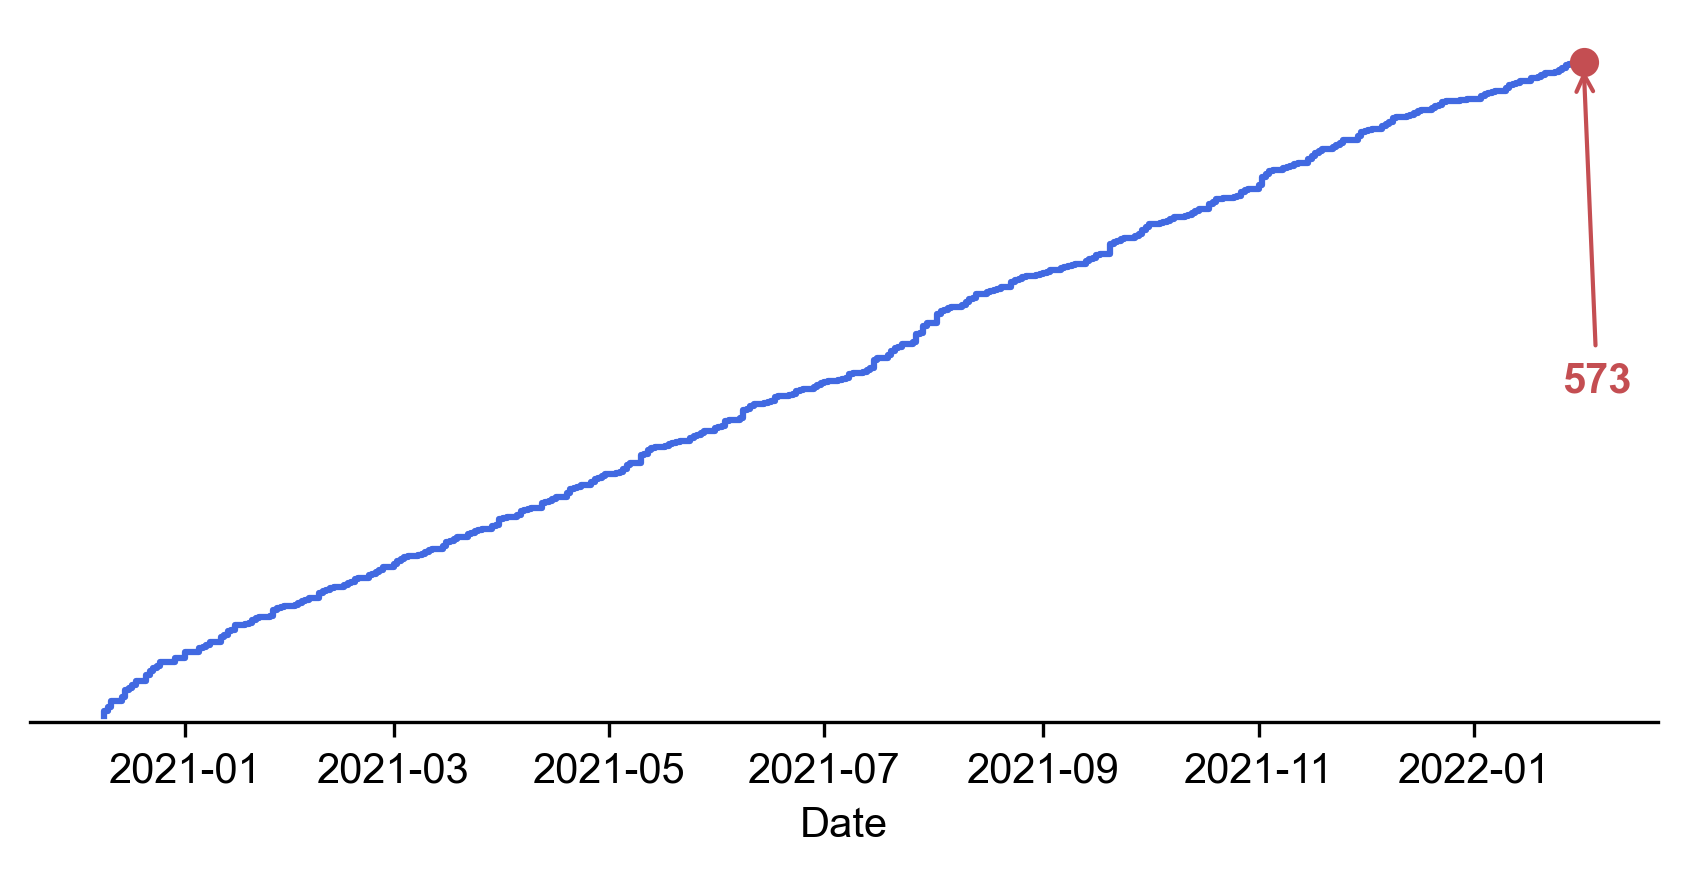
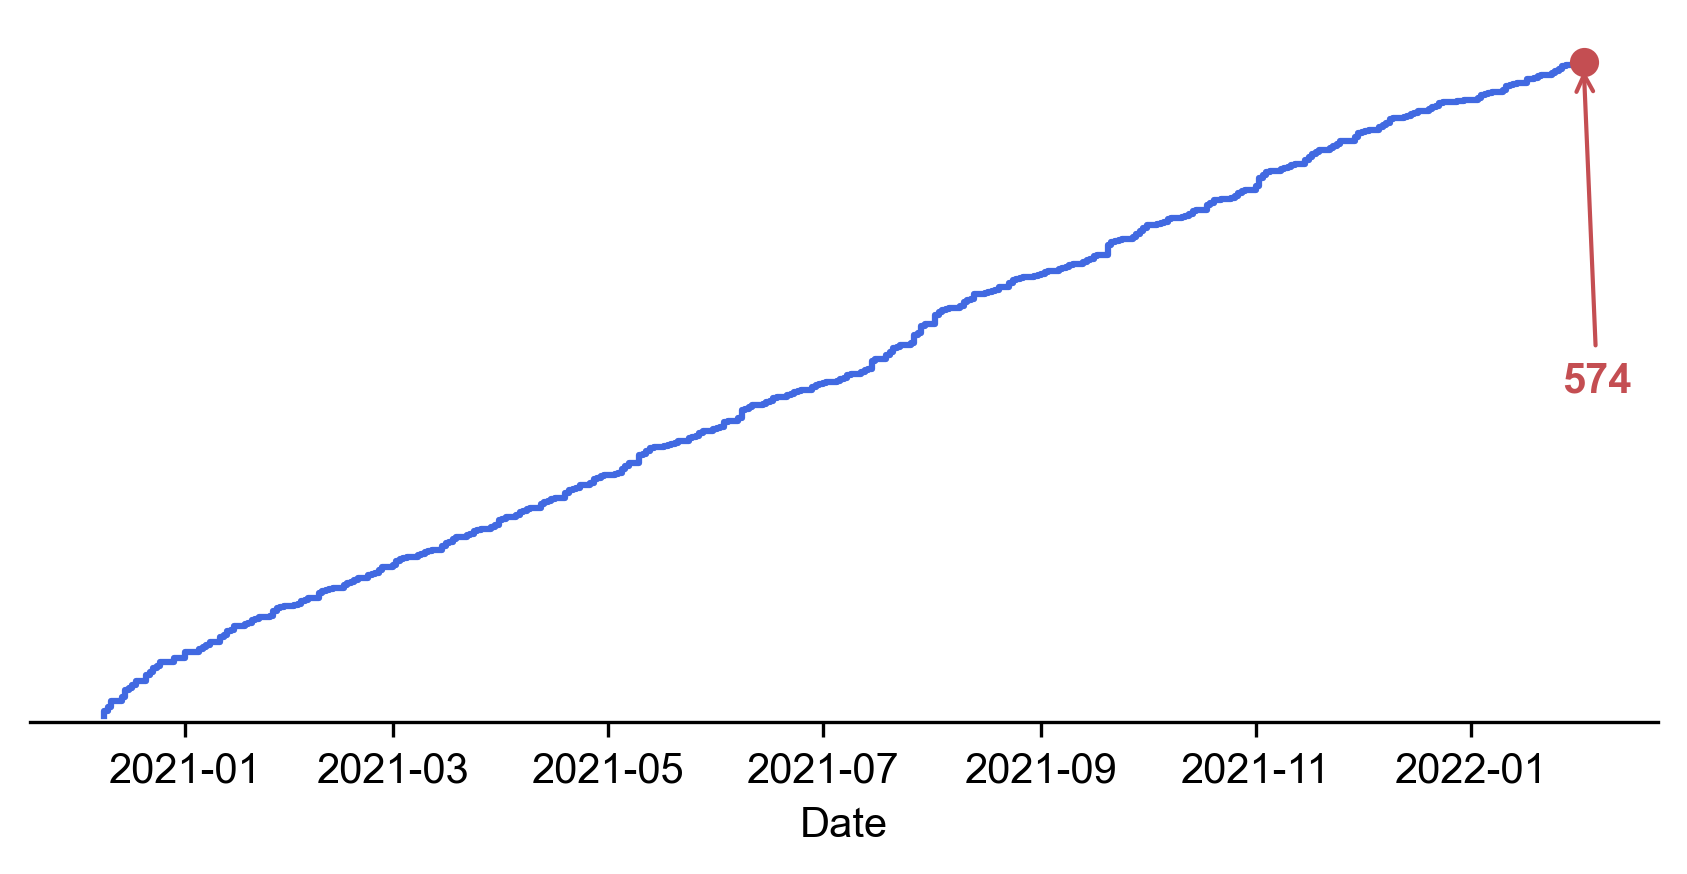
2022-02-02

diff --git a/2022/02/AstroPH-2022-02.md b/2022/02/AstroPH-2022-02.md
@@ -20,3 +20,8 @@
 
 ## 2022-02-02
 
+1. [The Cosmological Constant as Event Horizon](https://arxiv.org/abs/2202.00641)
+
+   > Cosmology, Dark Energy, General Relativity, Black Hole
+
+   广义相对论允许宇宙学常数$\Lambda$的存在，这创造了宇宙膨胀和暗能量的模型。
